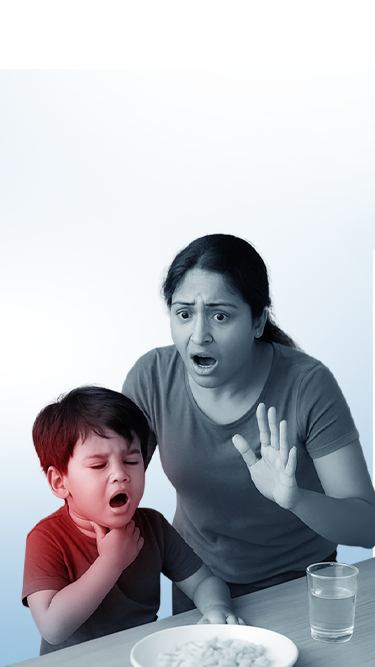
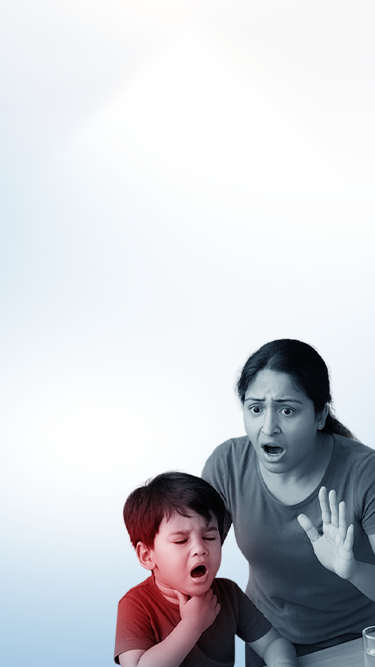
Fixed background

diff --git a/bls-main/src/components/Home.tsx b/bls-main/src/components/Home.tsx
@@ -48,7 +48,7 @@ function CountUpStat({ number, label }: Stat) {
   return (
     <div
       ref={ref}
-      className="border border-[#0A68AD] bg-white/80 rounded-xl px-2 py-2 flex flex-col items-center w-[30%] min-w-[100px] h-[80px] md:w-[240px] md:h-[100px] md:flex-row md:px-4 md:py-3 sm:w-[30%] sm:h-[100px] sm:flex-row sm:px-4 sm:py-3 text-center sm:text-left"
+      className="border border-[#0A68AD] bg-white/80 rounded-xl px-2 py-2 flex flex-col items-center w-[30%] min-w-[100px] h-[80px] md:w-[240px] md:h-[100px] md:flex-row md:px-4 md:py-3 sm:w-[30%] sm:h-[90px] sm:flex-row sm:px-4 sm:py-3 text-center sm:text-left"
     >
       <span className="text-[#EE5A22] text-xl sm:text-4xl font-bold sm:mr-3">{count}+</span>
       <div className="leading-tight">
@@ -96,7 +96,7 @@ export default function Home() {
       <NavBar />
       <Blinking />
       <section id="home" className="relative w-full flex-grow min-h-screen">
-        <div className="absolute inset-0 w-full h-full top-[90px] -z-10">
+        <div className="absolute top-20 sm:top-20 md:top-20 left-0 right-0 bottom-0 -z-10">
           <Image
             src={currentImage}
             alt="Background slide"
@@ -140,7 +140,7 @@ export default function Home() {
           />
         </a>
 
-        <div className="absolute bottom-115 md:bottom-10 lg:bottom-10  left-1/2 transform -translate-x-1/2 w-full max-w-5xl px-2 flex flex-row flex-wrap items-center justify-center gap-2 md:gap-4">
+        <div className="absolute top-30 md:top-auto md:bottom-10 left-1/2 transform -translate-x-1/2 w-full max-w-5xl px-2 flex flex-row flex-wrap items-center justify-center gap-2 md:gap-4">
           <CountUpStat number={2400} label="People Trained" />
           <CountUpStat number={1200} label="People Taken the Pledge" />
           <CountUpStat number={500} label="Training Sessions" />
